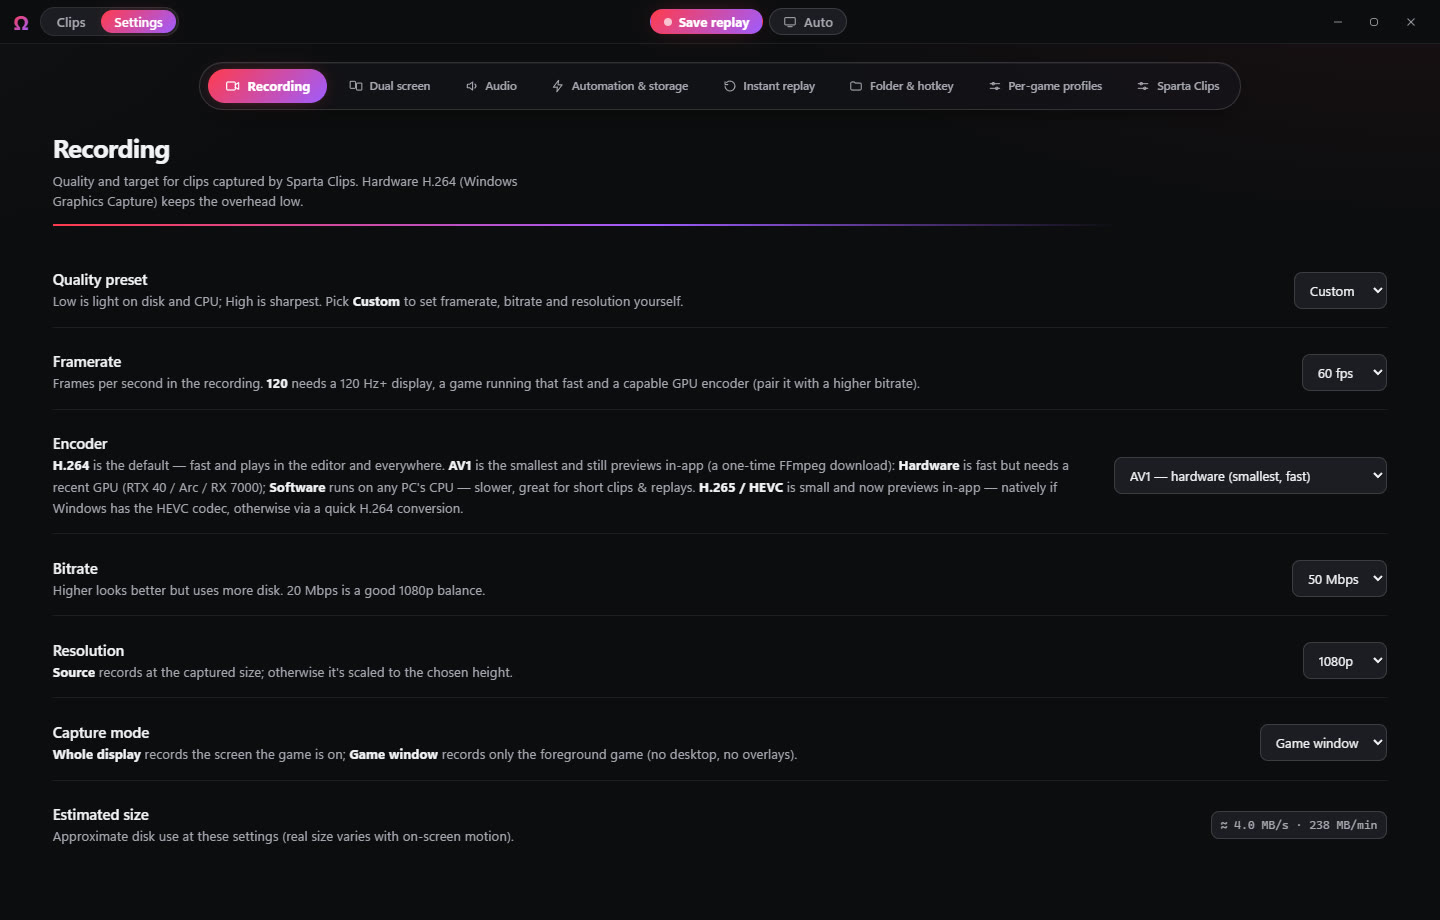
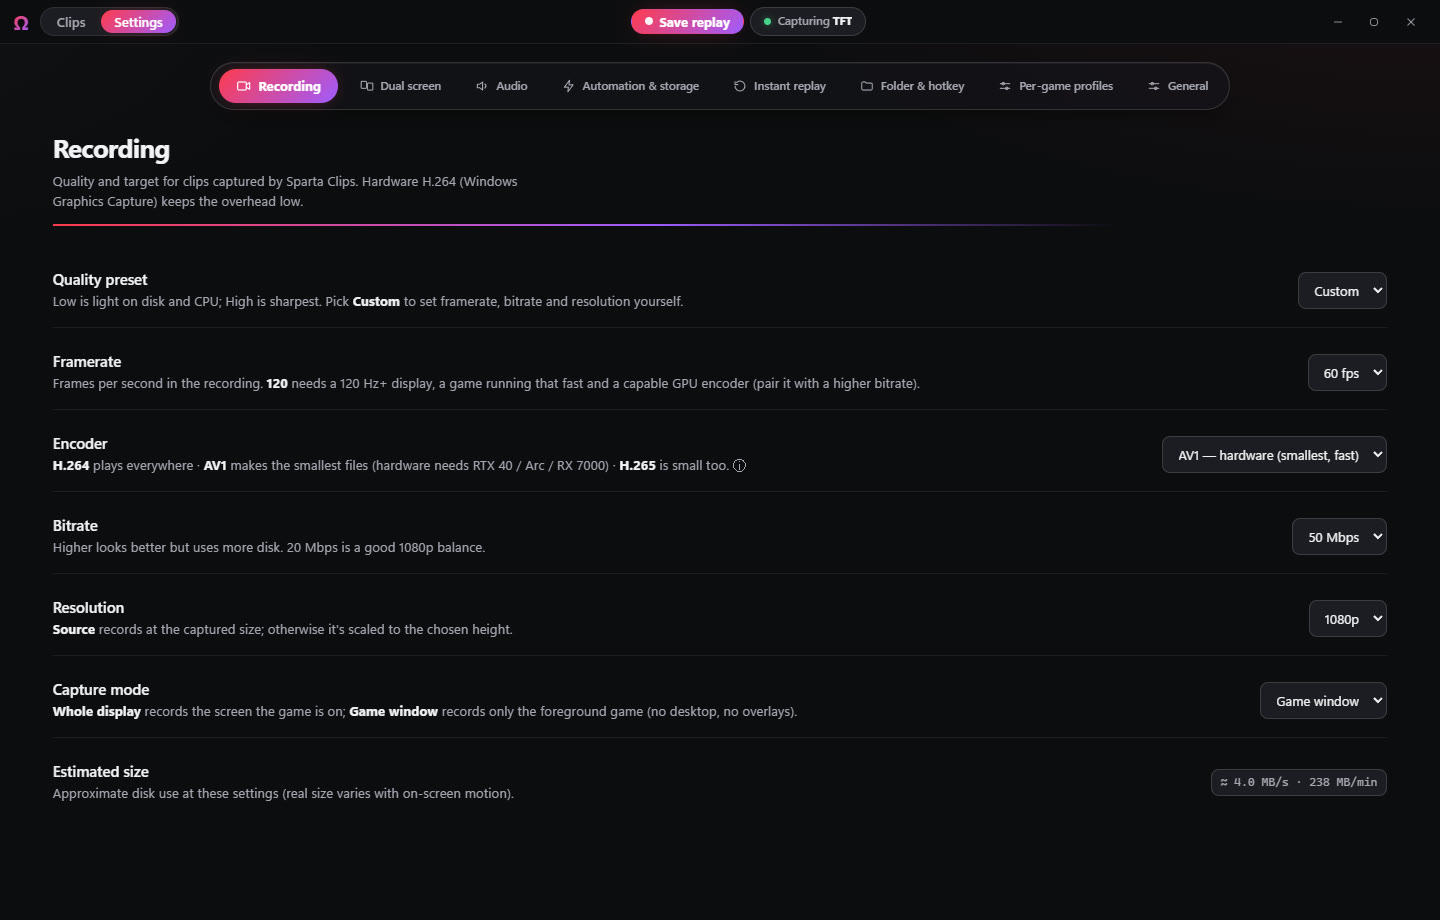
Fix: full-quality shares with voice tracks; real clip length in toast; new screenshots
- Sharing an untrimmed clip with a mic/chat track re-encoded the whole video at x264 CRF 20
  (125 MB clip -> 8.5 MB at the 500 MB tier). Untrimmed shares now copy the video and only
  mix the audio (identical video, ~1 s); trimmed shares use a near-lossless intermediate.
- 'Replay saved' shows the clip's real length (short replays after a window switch).
- README: fresh screenshots of the current UI + the new notification.

diff --git a/Ui/TrayCore.cs b/Ui/TrayCore.cs
@@ -203,7 +203,11 @@ namespace SpartaClips
             var m = System.Text.RegularExpressions.Regex.Match(n, @"^(.*)_\d{2}\.\d{2}\.\d{4}\.\d{2}\.\d{2}");
             string game = (m.Success ? m.Groups[1].Value : n).Replace('_', ' ').Trim();
             bool replay = n.Contains("_replay", StringComparison.OrdinalIgnoreCase);
-            return replay ? (game.Length > 0 ? game + "  ·  " : "") + ClipRecorder.ReplayLenSeconds + " s" : game;
+            // The real clip length (a replay right after switching windows is shorter than the replay setting).
+            double secs = 0;
+            try { string? full = ClipLibrary.PathOf(JsonField(json, "name") ?? ""); if (full != null) secs = ClipLibrary.Mp4DurationSeconds(full); } catch { }
+            string len = secs >= 60 ? $"{(int)secs / 60}:{(int)secs % 60:00}" : secs > 0 ? Math.Max(1, (int)Math.Round(secs)) + " s" : ClipRecorder.ReplayLenSeconds + " s";
+            return (game.Length > 0 ? game + "  ·  " : "") + (replay || secs > 0 ? len : "");
         }
         // Rebind from the settings UI; persisted by the web layer into config.json (state). Returns whether the hook is active.
         public bool SetClipHotkeys(uint recMods, uint recVk, uint repMods, uint repVk, uint markMods, uint markVk)

diff --git a/Services/Capture/ClipShare.cs b/Services/Capture/ClipShare.cs
@@ -65,7 +65,12 @@ namespace SpartaClips
                     if (!(await ClipFfmpeg.ComposeAsync(src, mic.Length > 0 ? mic : null, chat.Length > 0 ? chat : null,
                             vin, vout, mix.vidVol,
                             mic.Length > 0, mix.micIn, mOut, mix.micOffset, mix.micVol,
-                            chat.Length > 0, mix.chatIn, cOut, mix.chatOffset, mix.chatVol, comp)
+                            chat.Length > 0, mix.chatIn, cOut, mix.chatOffset, mix.chatVol, comp,
+                            // Untrimmed → only the AUDIO needs mixing: copy the video untouched (original quality, fast).
+                            // Trimmed → frame-accurate cut needs a re-encode: near-lossless intermediate; the tier step
+                            // below compresses only if it doesn't fit. before: always x264 CRF 20 — a 125 MB clip
+                            // "shared at 500 MB" came out as 8.5 MB.
+                            trimmed ? "-c:v libx264 -preset veryfast -crf 14 -pix_fmt yuv420p" : "-c:v copy")
                         && File.Exists(comp)))
                     {
                         // FAIL the share — before: it silently fell through to the RAW clip, sharing the full

diff --git a/Services/Capture/ClipFfmpeg.cs b/Services/Capture/ClipFfmpeg.cs
@@ -133,7 +133,7 @@ namespace SpartaClips
             double vidIn, double vidOut, double vidVol,
             bool micOn, double micIn, double micOut, double micOffset, double micVol,
             bool chatOn, double chatIn, double chatOut, double chatOffset, double chatVol,
-            string destPath)
+            string destPath, string? videoArgs = null)
         {
             string? ff = Ff; if (ff == null || !File.Exists(src)) return false;
             double dur = vidOut - vidIn; if (dur < 0.2) return false;
@@ -149,7 +149,7 @@ namespace SpartaClips
                 inputIdx = AppendTrack(sb, mixLabels, ref extraInputs, micOn, micWav, vidIn, vidOut, micIn, micOut, micOffset, micVol, inputIdx, "ma");
                 inputIdx = AppendTrack(sb, mixLabels, ref extraInputs, chatOn, chatWav, vidIn, vidOut, chatIn, chatOut, chatOffset, chatVol, inputIdx, "ca");
 
-                string venc = "-c:v libx264 -preset veryfast -crf 20 -pix_fmt yuv420p";
+                string venc = videoArgs ?? "-c:v libx264 -preset veryfast -crf 20 -pix_fmt yuv420p";   // share passes copy / high-quality args
                 string args;
                 if (mixLabels.Count > 1)
                 {

diff --git a/README.md b/README.md
@@ -65,7 +65,11 @@ system tray (bottom-right, near the clock — click the **^** arrow if you don't
 
 1. **Play your game** like normal. Sparta Clips is already recording in the background (it only keeps the last
    30 seconds, so it doesn't fill your disk).
-2. Something cool happens? Press **Ctrl + Alt + F10**. You'll hear a little *ding* — your clip is saved.
+2. Something cool happens? Press **Ctrl + Alt + F10**. You'll hear a quick sound and see a small notification in
+   the top-left corner — your clip is saved. (The notification never shows up in your recordings.)
+
+   <img src="docs/screenshots/notification.png" width="460" alt="Saving replay… then Replay saved">
+
 3. Open Sparta Clips from the tray to **watch, trim, or share** it. To share: click **Share**, then **drag the big
    red box into your Discord chat**, or click **Copy for Discord** and paste with **Ctrl + V**.
 
